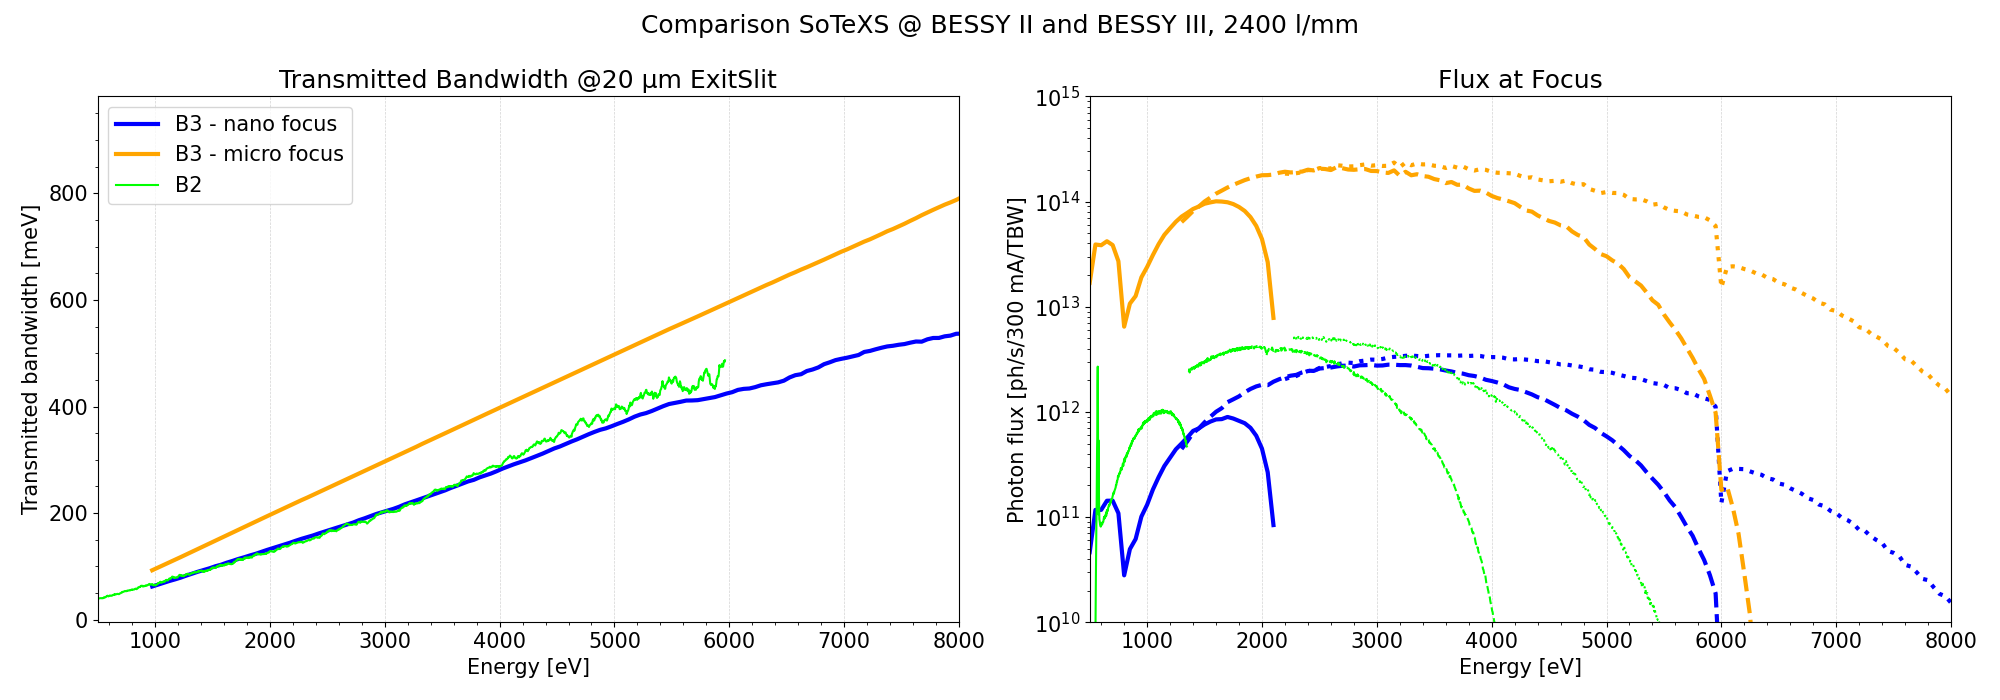
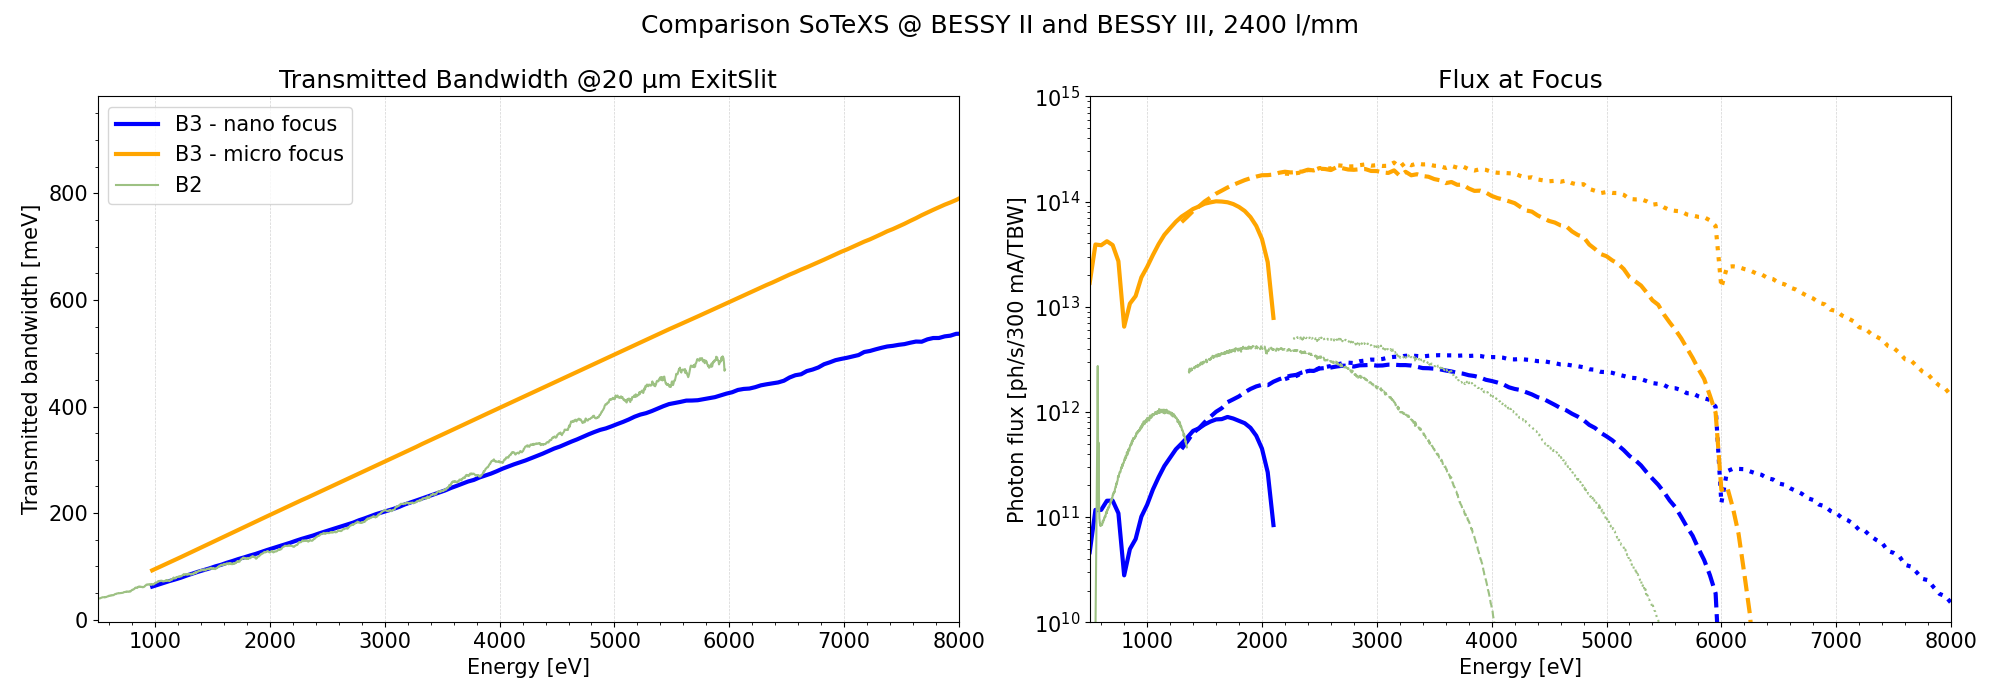
eval

diff --git a/beamlines/Signature1-SoTeXS/simulations/comparison_with_BII/eval_2400_talk.py b/beamlines/Signature1-SoTeXS/simulations/comparison_with_BII/eval_2400_talk.py
@@ -44,7 +44,7 @@ fig, (axs) = plt.subplots(1, 2, figsize=(20, 7))
 fig.suptitle('Comparison SoTeXS @ BESSY II and BESSY III, 2400 l/mm')
 x_range = [500, 8000]
 colors = ['red', 'blue', 'green']
-color_B2 = ['salmon', 'royalblue', 'lime']
+color_B2 = ['salmon', 'royalblue', '#9DC183']
 
 # MIRROR REFLECTIVITY
 ax1 = axs[0]
@@ -158,7 +158,7 @@ ax3.plot(mov_av(BL_df_2['PhotonEnergy'], window),
              mov_av(BL_df_2['Bandwidth']*1000, window),
              linestyle='solid',
              label=f'B2', 
-             color='lime')
+             color='#9DC183')
 
 
 
@@ -199,7 +199,7 @@ for ind,harm in enumerate(harms):
     filtered_df = BL_df_2[(BL_df_2['PhotonEnergy'] >= Emin_harm) & (BL_df_2['PhotonEnergy'] <= Emax_harm)]
     ax4.plot(mov_av(filtered_df['PhotonEnergy'], window), 
                 mov_av(filtered_df[f'PhotonFlux{harm}'], window),
-                color='lime', linestyle=ls[ind],
+                color='#9DC183', linestyle=ls[ind],
                 label=f'B2-Harm. {harm}')
     
 
@@ -250,7 +250,7 @@ ax3.plot(mov_av(BL_df_2['PhotonEnergy'], window),
              mov_av(BL_df_2['PhotonEnergy']/BL_df_2['Bandwidth'], window),
              linestyle='solid',
              label=f'B2', 
-             color='lime')
+             color='#9DC183')
 
 
 
@@ -292,7 +292,7 @@ for ind,harm in enumerate(harms):
     filtered_df = BL_df_2[(BL_df_2['PhotonEnergy'] >= Emin_harm) & (BL_df_2['PhotonEnergy'] <= Emax_harm)]
     ax4.plot(mov_av(filtered_df['PhotonEnergy'], window), 
                 mov_av(filtered_df[f'PhotonFlux{harm}'], window),
-                color='lime', linestyle=ls[ind],
+                color='#9DC183', linestyle=ls[ind],
                 label=f'B2-Harm. {harm}')
     
 

diff --git a/undulators/UndulatorFiles_BESSY_II/convert_from_spectra.py b/undulators/UndulatorFiles_BESSY_II/convert_from_spectra.py
@@ -101,11 +101,6 @@ def batch_extract_energy_flux(folder: str) -> Dict[str, pd.DataFrame]:
     return results
 
 ####################################
-# UE65
-all_dfs = batch_extract_energy_flux("Elisa-UE65-HL-1-1")
+# CPMU 20
+all_dfs = batch_extract_energy_flux("BII-CPMU20-SoTeXs")
 ########################################
-
-####################################
-# IVUE36
-all_dfs = batch_extract_energy_flux("IVUE31")
-#########################################
